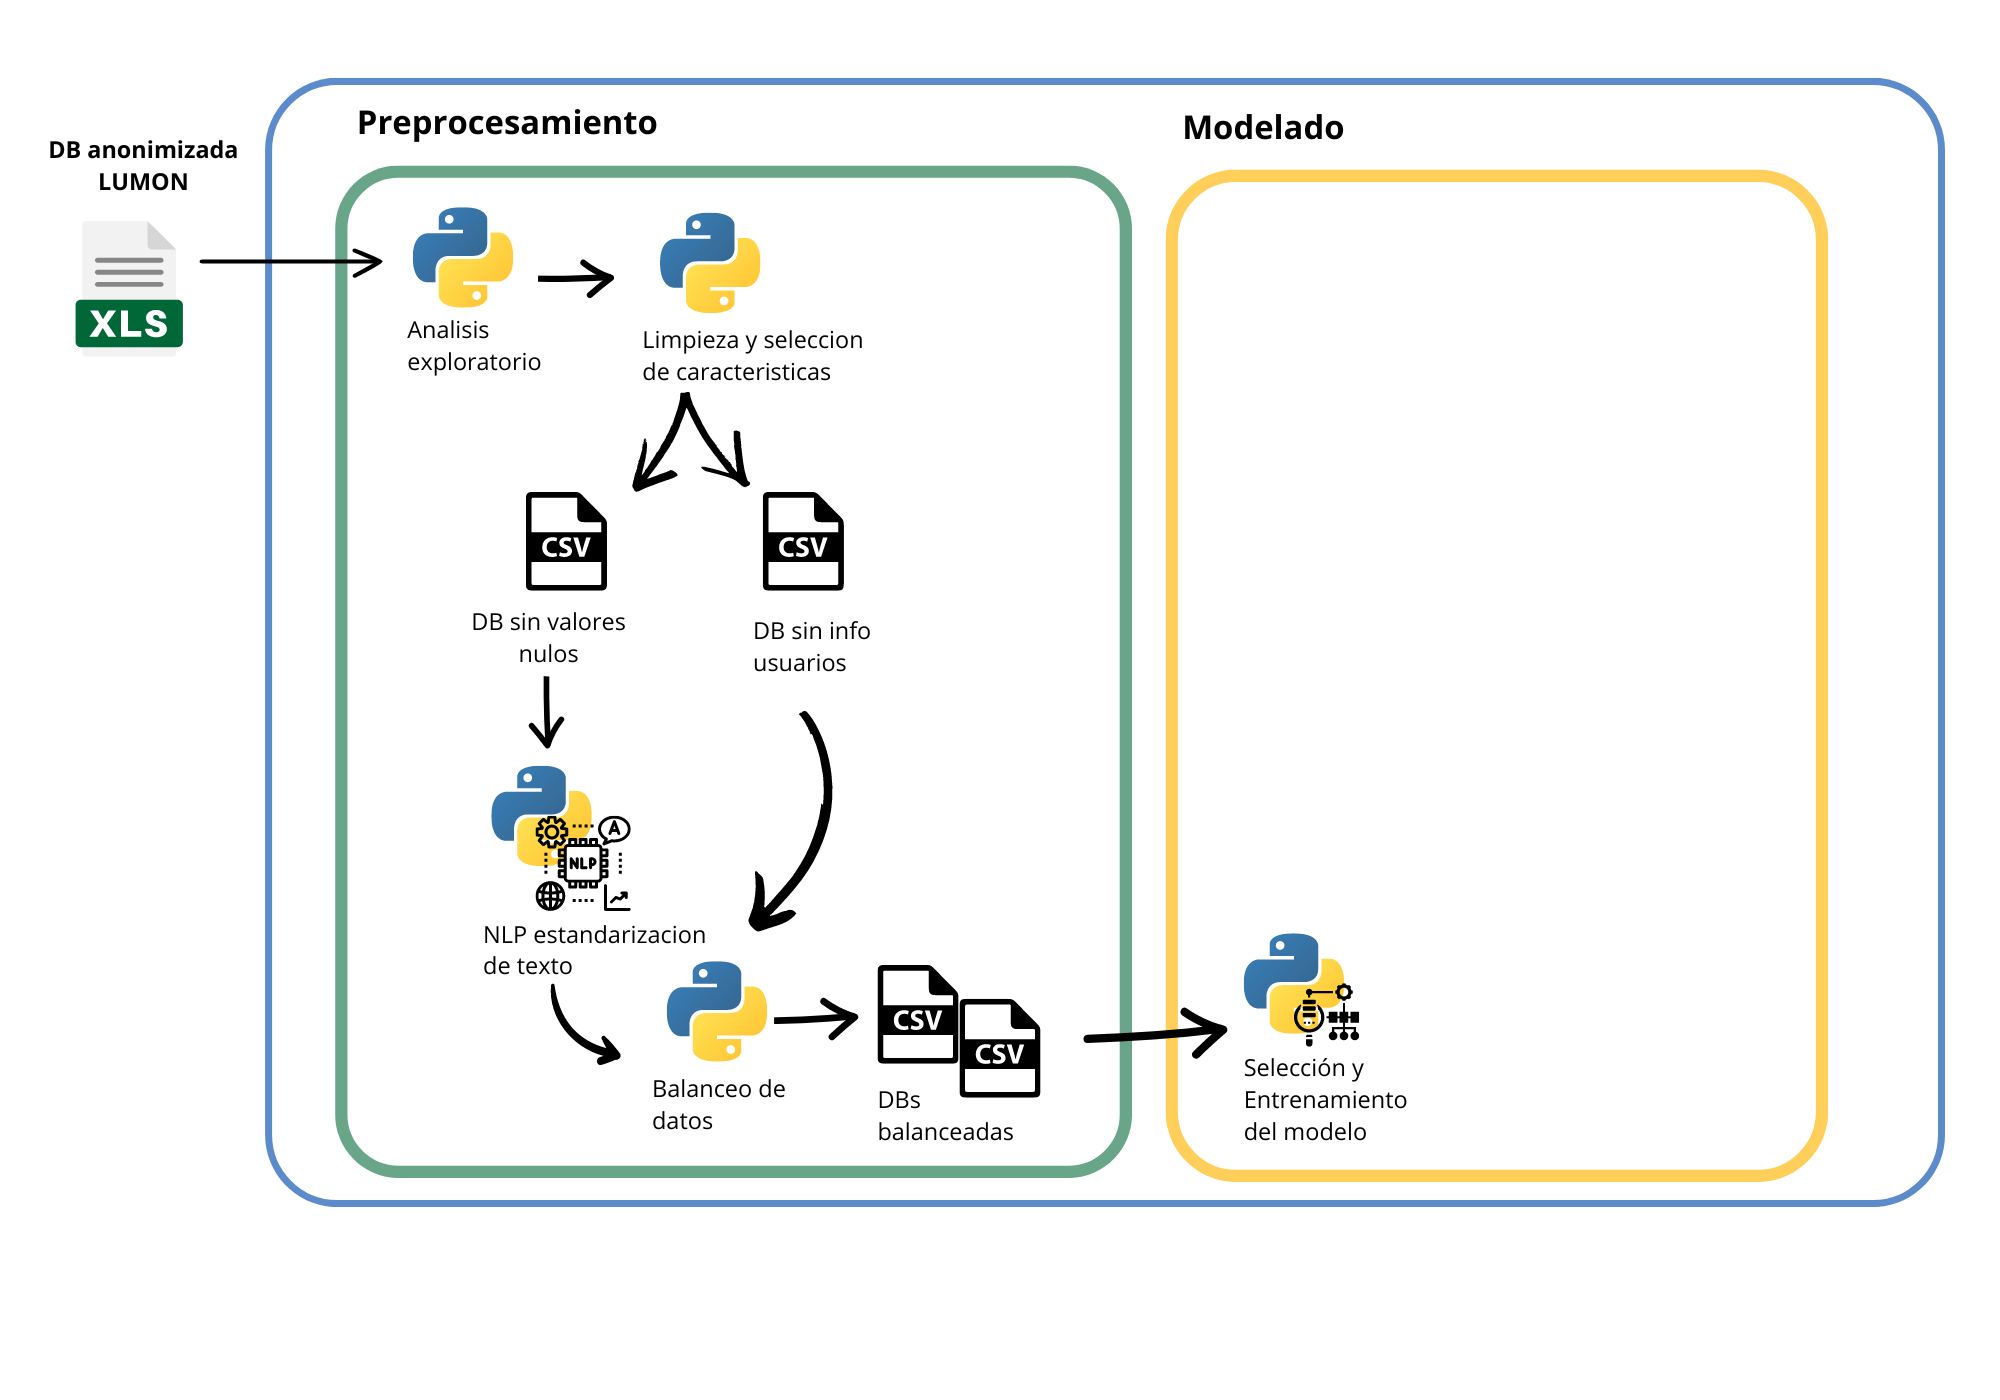
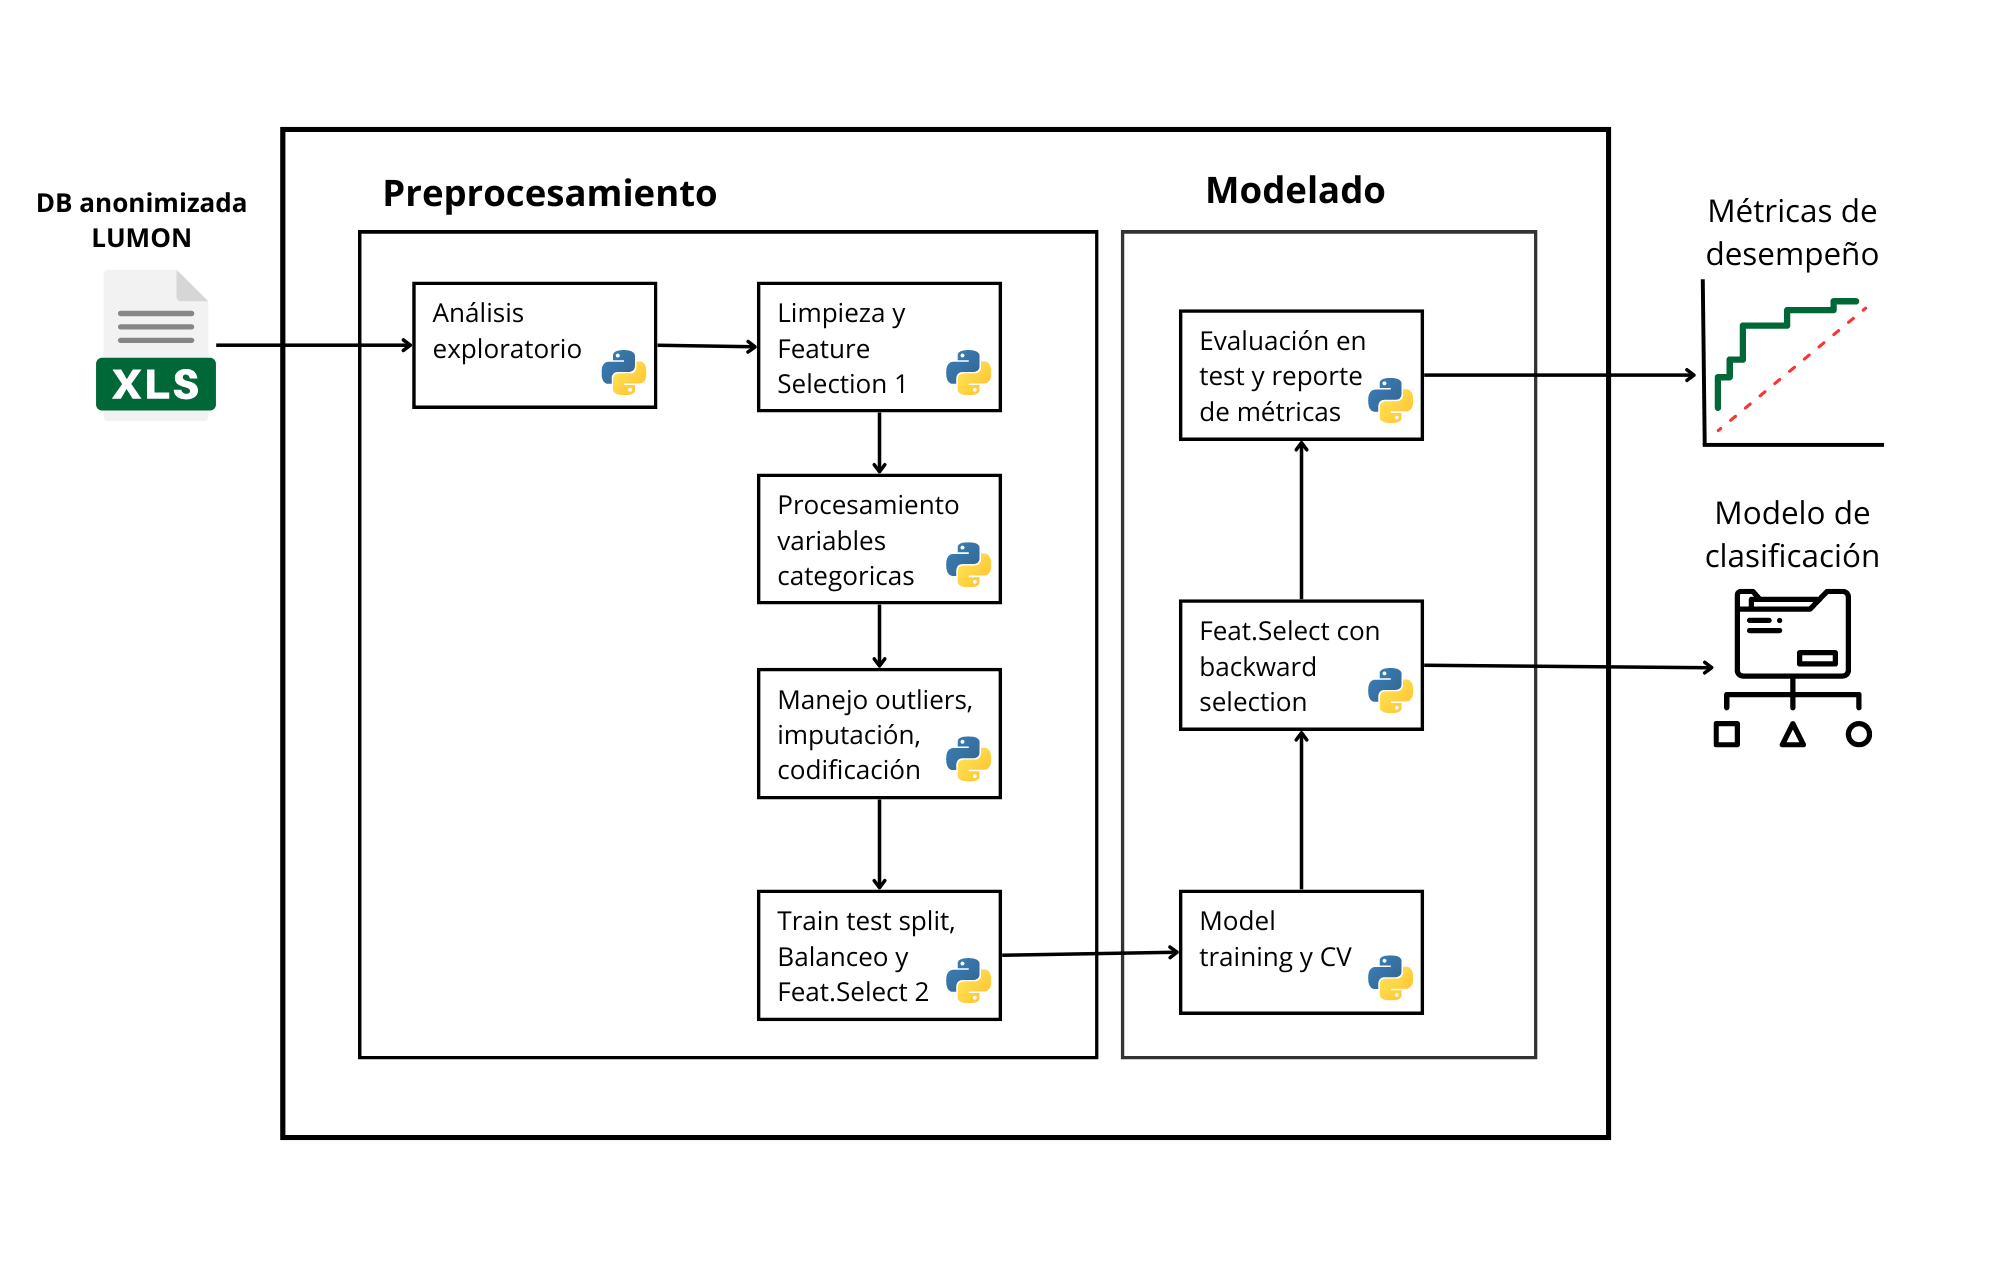
:memo: Update Readme

Changed region(s): [[0.0, 0.0308, 0.961, 0.9234], [0.961, 0.0923, 0.992, 0.8311], [0.279, 0.7388, 0.31, 0.7695]]

diff --git a/README.md b/README.md
@@ -14,6 +14,7 @@ Video Demo: (**Pediente**)
 [Plantilla de Comunicaciones:](https://livejaverianaedu.sharepoint.com/:w:/r/sites/PruebasdeconceptoacadmicasCAOBA-poc-069-lumon-riesgo-crediticio-fase1/Shared%20Documents/poc-069-lumon-riesgo-crediticio-fase1/1_Proyecto%20y%20seguimiento/Plantillas%20Caoba/PLANTILLA%20DE%20INSUMOS%20_CAOBA_PoC%20069.docx?d=w7c1b8ef32d9f480f996d6934cf14d5ea&csf=1&web=1&e=DNyObh)
 
 ## Tabla de Contenidos
+* [Objetivos](#objetivos)
 * [Descripción de la solución](#descripción-de-la-solución)
 * [Screenshots](#screenshots)
 * [Requerimientos](#requerimientos)
@@ -22,13 +23,22 @@ Video Demo: (**Pediente**)
 * [Pruebas Automatizadas](#pruebas-automatizadas)
 * [Autores](#autores)
 
+## Objetivos:
+### Objetivo general 
+Plantear una solución basada en algoritmos de machine learning la cual permita analizar la informacion de la linea de negocio de prestamos de la empresa Lumon SAS, con el fin de saber si estos son elegibles o no para un prestamo, para ello se elaborará una herramienta basada en las caracteristicas socioeconomicas e información de crédito del individuo la cual estimara la probabilidad de impago de cliente, permitiendo tener una cartera más sana, mitigar el riesgo de credito y tener una selección adeuada de los riesgos. 
+
+### Objetivos especificos
+  -Analizar la base de datos de la empresa para encontrar características y relaciones importantes que brinden información relevante al modelo.
+  -Caracterizar la base datos para la correcta implementación del modelo.
+  -Aplicar un modelo de machine learning con una metricas adecuadas el cual sirva como una punto de partida para toma de decisiones, y a su vez adjudicar los prestamos de manera eficiente.
+
 ## Descripción de la solución
- En Lumon SAS para continuar con su línea de negocio de Fintech se requiere una herramienta para el análisis de riesgo financiero de los clientes a los que se adjudica los créditos, por lo tanto, se quiere aprovechar la bases de datos que hoy se tiene de los numerosos prestamos desembolsados a los usuarios para desarrollar un algoritmo predictivo de machine learning que genere la probabilidad de impago del cliente, generando así una adjudicación optima de los créditos, garantizando los flujos de caja desembolsados de los créditos y reduciendo los costos en casas de cobranza
+En Lumon SAS para continuar con su línea de negocio de Fintech se requiere una herramienta para el análisis de riesgo financiero de los clientes a los que se adjudica los créditos, por lo tanto, se quiere aprovechar la bases de datos que hoy se tiene de los numerosos prestamos desembolsados a los usuarios para desarrollar un algoritmo predictivo de machine learning que genere la probabilidad de impago del cliente, generando así una adjudicación optima de los créditos, garantizando los flujos de caja desembolsados de los créditos y reduciendo los costos en casas de cobranza
 
 ### Reto del cliente
 LUMON desarrolla software para el control de riesgo financiero. En el funcionamiento de esta línea de negocio se ha evidenciado la continua presencia del riesgo financiero para nuestros clientes, en temas de impagos de los créditos, incurriendo en costos de cobranza para recuperar la cartera vencida.
 Por tanto, se plantea la pregunta: ¿Cuál es la probabilidad que el usuario no pague el crédito recibido?
-### Solución Alianza CAOBA
+### Entregable
 En la primera reunión sostenida con la empresa se aclaró la expectativa y alcance del proyecto, definiendo como entregable final un modelo de Machine Learning desarrollado en Python para predecir la probabilidad de impago del cliente.
 ### Impacto potencial esperado en el Negocio
 1. Reducir la incidencia de incumplimientos de préstamos entre los usuarios de nuestra plataforma fintech.
@@ -40,26 +50,48 @@ En la primera reunión sostenida con la empresa se aclaró la expectativa y alca
 **Descripción de la solución**
 (**Pediente imagen**)
 
-### Screenshots / Demo
-(**Pediente demo**)
-
 ## Arquitectura logica de la solución
 
-**Preprocesamiento:**
-El proceso inicia con el dataset entregado por Lumon SAS, el cual contiene información socioeconómica e información crediticia de los usuarios con créditos, donde se realiza un análisis exploratorio y descriptivo de cada una de las columnas con el objetivo de entender las variables entregadas. Posteriormente se implementa un proceso de limpieza y selección de características del dataset donde se decide eliminar ciertas variables de la base de datos de acuerdo con la conversación con el equipo Lumon y los resultados de los análisis exploratorios donde se visualizan columnas repetidas, columnas sin varianza (datos con valor único), columnas linealmente dependendientes, columnas altamente relacionadas o columnas con datos no agregan valor al módelo. 
+**Diagrama** 
+![](docs/readme/docs_DiagramaArquitectura.png)
+
+### Preprocesamiento
+
+**Analisis exploratorio** 
+El proceso inicia con el dataset entregado por Lumon SAS, el cual contiene información socioeconómica e información crediticia de los usuarios con créditos, donde se realiza un análisis exploratorio y descriptivo de cada una de las columnas con el objetivo de entender las variables entregadas.
+
+**Limpieza y feature seleciton 1** 
+Posteriormente se implementa un proceso de limpieza y selección de características del dataset donde se decide eliminar ciertas variables de la base de datos de acuerdo con la conversación con el equipo Lumon y los resultados de los análisis exploratorios donde se visualizan columnas repetidas, columnas sin varianza (datos con valor único), columnas linealmente dependientes y/o columnas con datos no agregan valor al módelo. 
 
 Este proceso genera como resultado dos dataset: 
 * [DB sin valores nulos:] Esta base de datos tiene los datos socioeconómicos e información de crédito de los usuarios. El porcentaje total de usuarios que diligenciaron la información socioeconómica es del 3% por ello se decidió separar esta información para modelarla por separado.
 * [DB sin información de usuarios:] Este dataset comprende solo las columnas con información asociada a los créditos incluyendo la totalidad de los registros.
 
-Esta decisión de toma para aprovechar la data entregada y no eliminar el 97% de la información al no tener datos de la información de usuarios.
+*Esta decisión se toma para aprovechar la data entregada y no eliminar el 97% de la información al no tener datos de la socioeconomicos de los usuarios.*
 
-A la base de datos con información de los usuarios se le implementaran procesos de NLP para estandarizar valores de las columnas y reducir la dispersión del dataset. Luego se hará un proceso de balanceo de datos con la base de datos obtenida del proceso de estandarización de texto y el dataset sin información de usuarios, todo esto con el fin implementar dos modelos con cada base de datos y luego hacer la integración de estos. 
- 
- **Modelamiento:**
+**Procesamiento de variables categóricas** 
+A la base de datos con información de los usuarios se le implementaran procesos de NLP para estandarizar valores de las columnas y reducir la dispersión del dataset, enfocados principalmente en la ciudad de residencia. Para esto se utilizó la distancia de Levenshtein para asociar las ciudades que estan mal digitadas con las que no y poder estandarizarlas, además  se utilizo un dataset que contiene 900 municipios de Colombia para hacer asociación de cada ciudad con su longitud y latitud.
+Adicionalmente se procesaron todas las variables de fecha (Ponerlas en formato datatime) y la columna 'tiempo trabajo' (para convertirla en número de meses).
 
-**Diagrama** 
-![](docs/readme/docs_DiagramaArquitectura.png)
+**Manejo de outliers, imputación y codificación** 
+Posterior al procesamiento de las variables categóricas se procede a analizar la distribución de datos nulos para proceder con su imputación, las variables categóricas se imputaron con la moda. Para las para numéricas se inicio eliminando los datos atípicos con distancia de Mahalanobis, luego de esto se imputan los datos con la mediana, exceptuando las variables de 'Ingresos mensuales' la cual se estimó mediante regresión utilizando el resto de datos numericos. 
+Luego de tener todos los datos imputados se procede a realizar el One Hot Encoding para las variables categóricas y se extrae del campo 'Fecha desembolso' el mes y se trabaja con esta nuevo columna.
+
+**Train test split, balanceo y feature selection2** 
+Antes de pasar la etapa de entrenamiento se hará un split del conjunto de datos en dos subconjuntos con los siguientes porcentajes del dataset original: entrenamiento-80% y prueba 20%. Luego de esto se usaron los siguientes métodos utilizando el conjunto de entrenamiento para eliminar categorías no releventes: Matriz de correlaciones para las variables numéricas, y así determinar cuáles de estas están altamente correlacionadas y para las categóricas se evalúa la dependencia con variable objetivo mediante el test chi-cuadrado. 
+
+Previo a la etapa de modelación se balanceará el subconjunto de entrenamiento con el objetivo de que al entrenar el modelo se puedan obtener mejores resultados y tener una distribución de clases en el dataset de 50-50.
+
+### Modelamiento
+
+**Model training y cross validation** 
+Partiendo del dataset de entrenamiento balanceado se procede con la implementación de los modelos NaiveBayes, Regresión Logistica y LDA Lineal. La idea es aplicar estos tres modelos para ambos conjuntos de datos (Información usuarios, Información crediticia) y elegir el mejor modelo a partir de cross validation.
+
+**Feature selection con backward** 
+Luego de seleccionar el mejor modelo se busca de manera iterativa ir eliminando columnas mediante backward selection utilizando la metrica F1-Score.
+
+**Evaluación en test y reporte de metricas**
+Utilizando los conjuntos de test se procede a evaluar los modelos y se generar las graficas de desempeño final. 
 
 
 
@@ -68,17 +100,37 @@ A la base de datos con información de los usuarios se le implementaran procesos
 ```
 .
 ├── README.md
+├── .gitignore
+├── root.py
+├── requirements.txt
 ├── data/
 │   ├── raw/
+│   │   ├── ciudades.csv
+│   │   ├── db_raw_infousers.csv
+│   │   ├── db_raw_reducida.csv
 │   │   ├── db_v0.xlsx
 │   └── stage/
-│       └── db_stage_infousers.csv
-│       └── db_stage_reducida.csv
+│       └── df_pross_info_users.csv
+│       └── df_categorico_imputado.csv
+│       └── df_imputado_final.csv
+│       └── df_imputado.csv
+│       └── df_numerico_imputado.csv
+│       └── df_numerico1_imputado.csv
+│       └── train_creditinfo.csv
+│       └── train_infousers.csv
+│       └── test_creditinfo.csv
+│       └── test_infousers.csv
 │   ├── analytics/
 ├── datalab/
-    ├──EDA.ipynb
-    ├──Cleannig.ipynb
-    ├──basicdescriptives_mod.py
+|    ├──basicdescriptives_mod.py
+|    ├──EDA.ipynb
+|    ├──Cleannig.ipynb
+|    ├──Imputacion.ipynb
+|    ├──Ingenieria_de_caracteristicas.ipynb
+|    ├──Modelos_LogReg_VSC.ipynb
+|    ├──Modelos_NB_LDA.ipynb
+|    ├──NLP.ipynb
+|    ├──pross_variables_categoricas.ipynb
 ├── src/
 ├── conf/
 ├── docs/
@@ -91,7 +143,8 @@ A la base de datos con información de los usuarios se le implementaran procesos
 ```
 
 
-## Proceso de ejecucion y despliegue
+## Proceso de ejecucion y despliegue 
+**Nota:** Para llenar
 
 ## Requerimientos
 **Nota:** Obligatorio: Minimo debe escribir los requerimientos por cada lenguaje de programacion usado tanto en el back-end (Ej: Python, R) como en el front-end, si aplica. Tambien, es importante que ponga las versiones correspondientes 
@@ -108,19 +161,19 @@ Para llenar
 ## Configuracion
 **Nota:** Para llenar
 
-## Ejemplos de Codigo
+## Ejemplos de Codigo 
 **Nota:** Para llenar
 
-## Errores conocidos
+## Errores conocidos 
 **Nota:** Para llenar
 
-## Pruebas Automatizadas
+## Pruebas Automatizadas 
 **Nota:** Si aplica puede poner como correr las pruebas
 
 ## Imagenes
 **Nota:** Si aplica puede poner cuales fueron las imagenes usadas (Ejemplo: Docker)
 
-## Usage
+## Usage 
 Use examples liberally, and show the expected output if you can. It's helpful to have inline the smallest example of usage that you can demonstrate, while providing links to more sophisticated examples if they are too long to reasonably include in the README.
 
 ## Support
@@ -129,25 +182,21 @@ Tell people where they can go to for help. It can be any combination of an issue
 ## Roadmap
 If you have ideas for releases in the future, it is a good idea to list them in the README.
 
-## Contributing
+## Contributing 
 State if you are open to contributions and what your requirements are for accepting them.
 
 For people who want to make changes to your project, it's helpful to have some documentation on how to get started. Perhaps there is a script that they should run or some environment variables that they need to set. Make these steps explicit. These instructions could also be useful to your future self.
 
 You can also document commands to lint the code or run tests. These steps help to ensure high code quality and reduce the likelihood that the changes inadvertently break something. Having instructions for running tests is especially helpful if it requires external setup, such as starting a Selenium server for testing in a browser.
 
-## License
+## License 
 For open source projects, say how it is licensed.
 
-## Project status
-If you have run out of energy or time for your project, put a note at the top of the README saying that development has slowed down or stopped completely. Someone may choose to fork your project or volunteer to step in as a maintainer or owner, allowing your project to keep going. You can also make an explicit request for maintainers.
-
 ## Autores
-**Nota:** Obligatorio: Minimo debe llenar los autores tanto de analitica como del negocio,su organizacion, su nombre con el nombre del papel que tomo en el equipo, su respectivo correo electronico
 
 | Organización   | Nombre del Miembro | Correo electronico | 
 |----------|-------------|-------------|
-| PUJ-Bogota |  Persona 1: Cientific@ de Datos | ejemplo@XXXX |
-| Organizacion  |  Persona 2:Lider del negocio  | ejemplo@XXXX |
-
+| EAFIT  | Experto de negocio: Diego A. Giraldo T | dagiraldt1@eafit.edu.co |
+| EAFIT  | Cientifico de datos: Jose M. Gomez J.  | jmgomezj1@eafit.edu.co |
+| EAFIT  | Ingeniero de datos: J. Andres Ruiz Rada | aruizr3@eafit.edu.co  |
 
